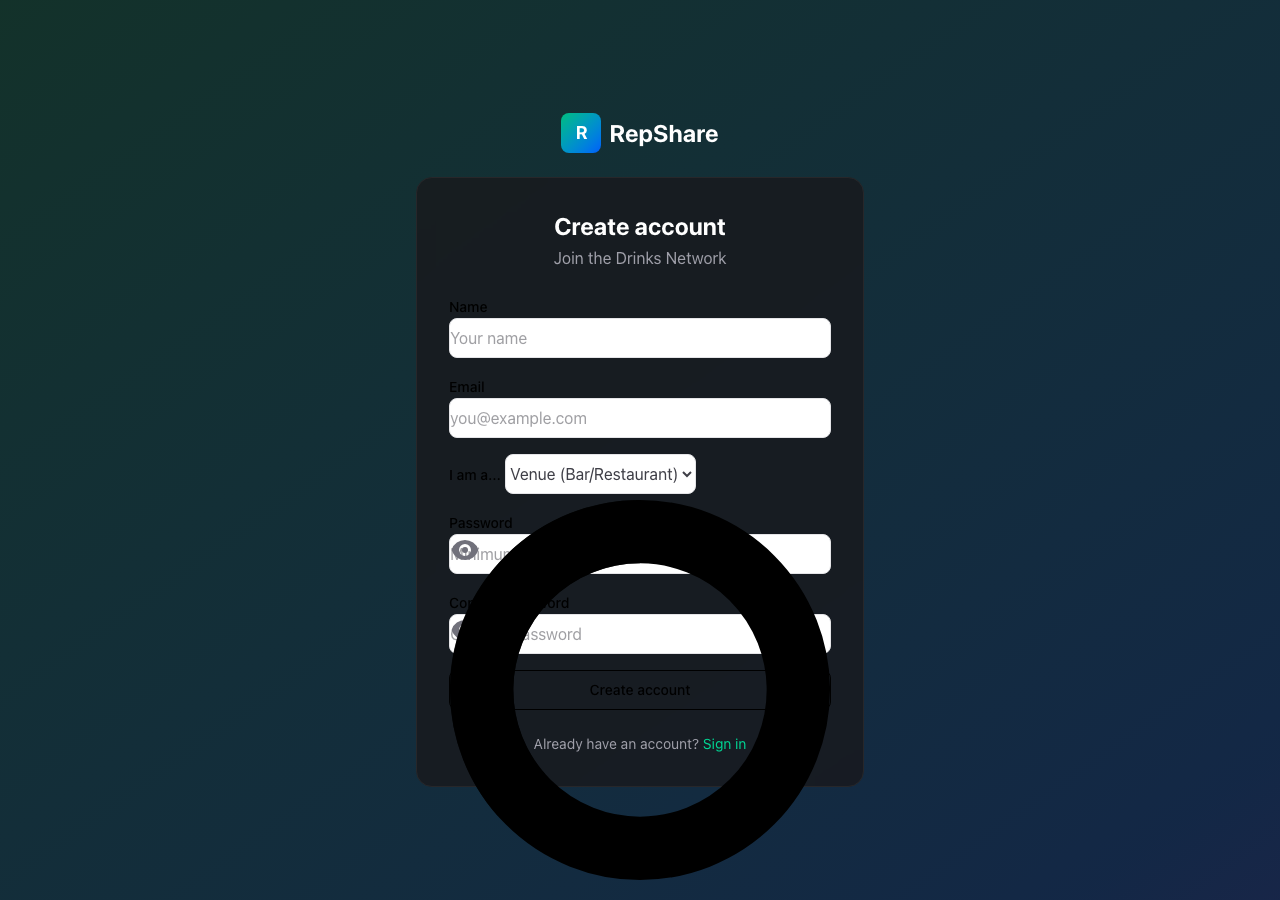
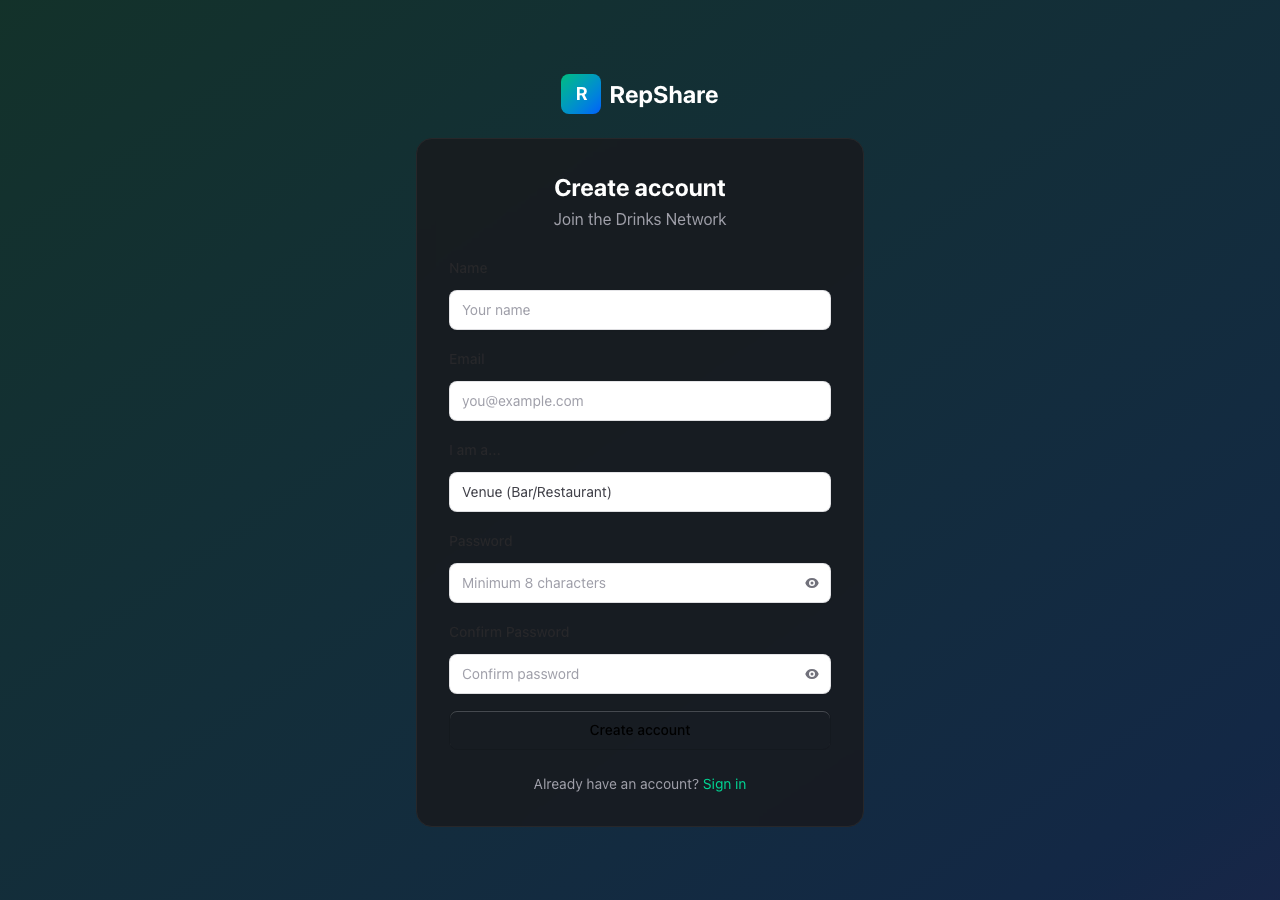
fix: Add visible styling for primary buttons

Changed region(s): [[0.3125, 0.0622, 0.6875, 0.9956]]

diff --git a/resources/css/app.css b/resources/css/app.css
@@ -15,3 +15,14 @@
     width: 1.5rem !important;
     height: 1.5rem !important;
 }
+
+/* Fix Flux primary button visibility in dark mode */
+[data-flux-button][data-variant="primary"] {
+    background: linear-gradient(to bottom right, #10b981, #3b82f6) !important;
+    color: white !important;
+    border: none !important;
+}
+
+[data-flux-button][data-variant="primary"]:hover {
+    background: linear-gradient(to bottom right, #059669, #2563eb) !important;
+}
